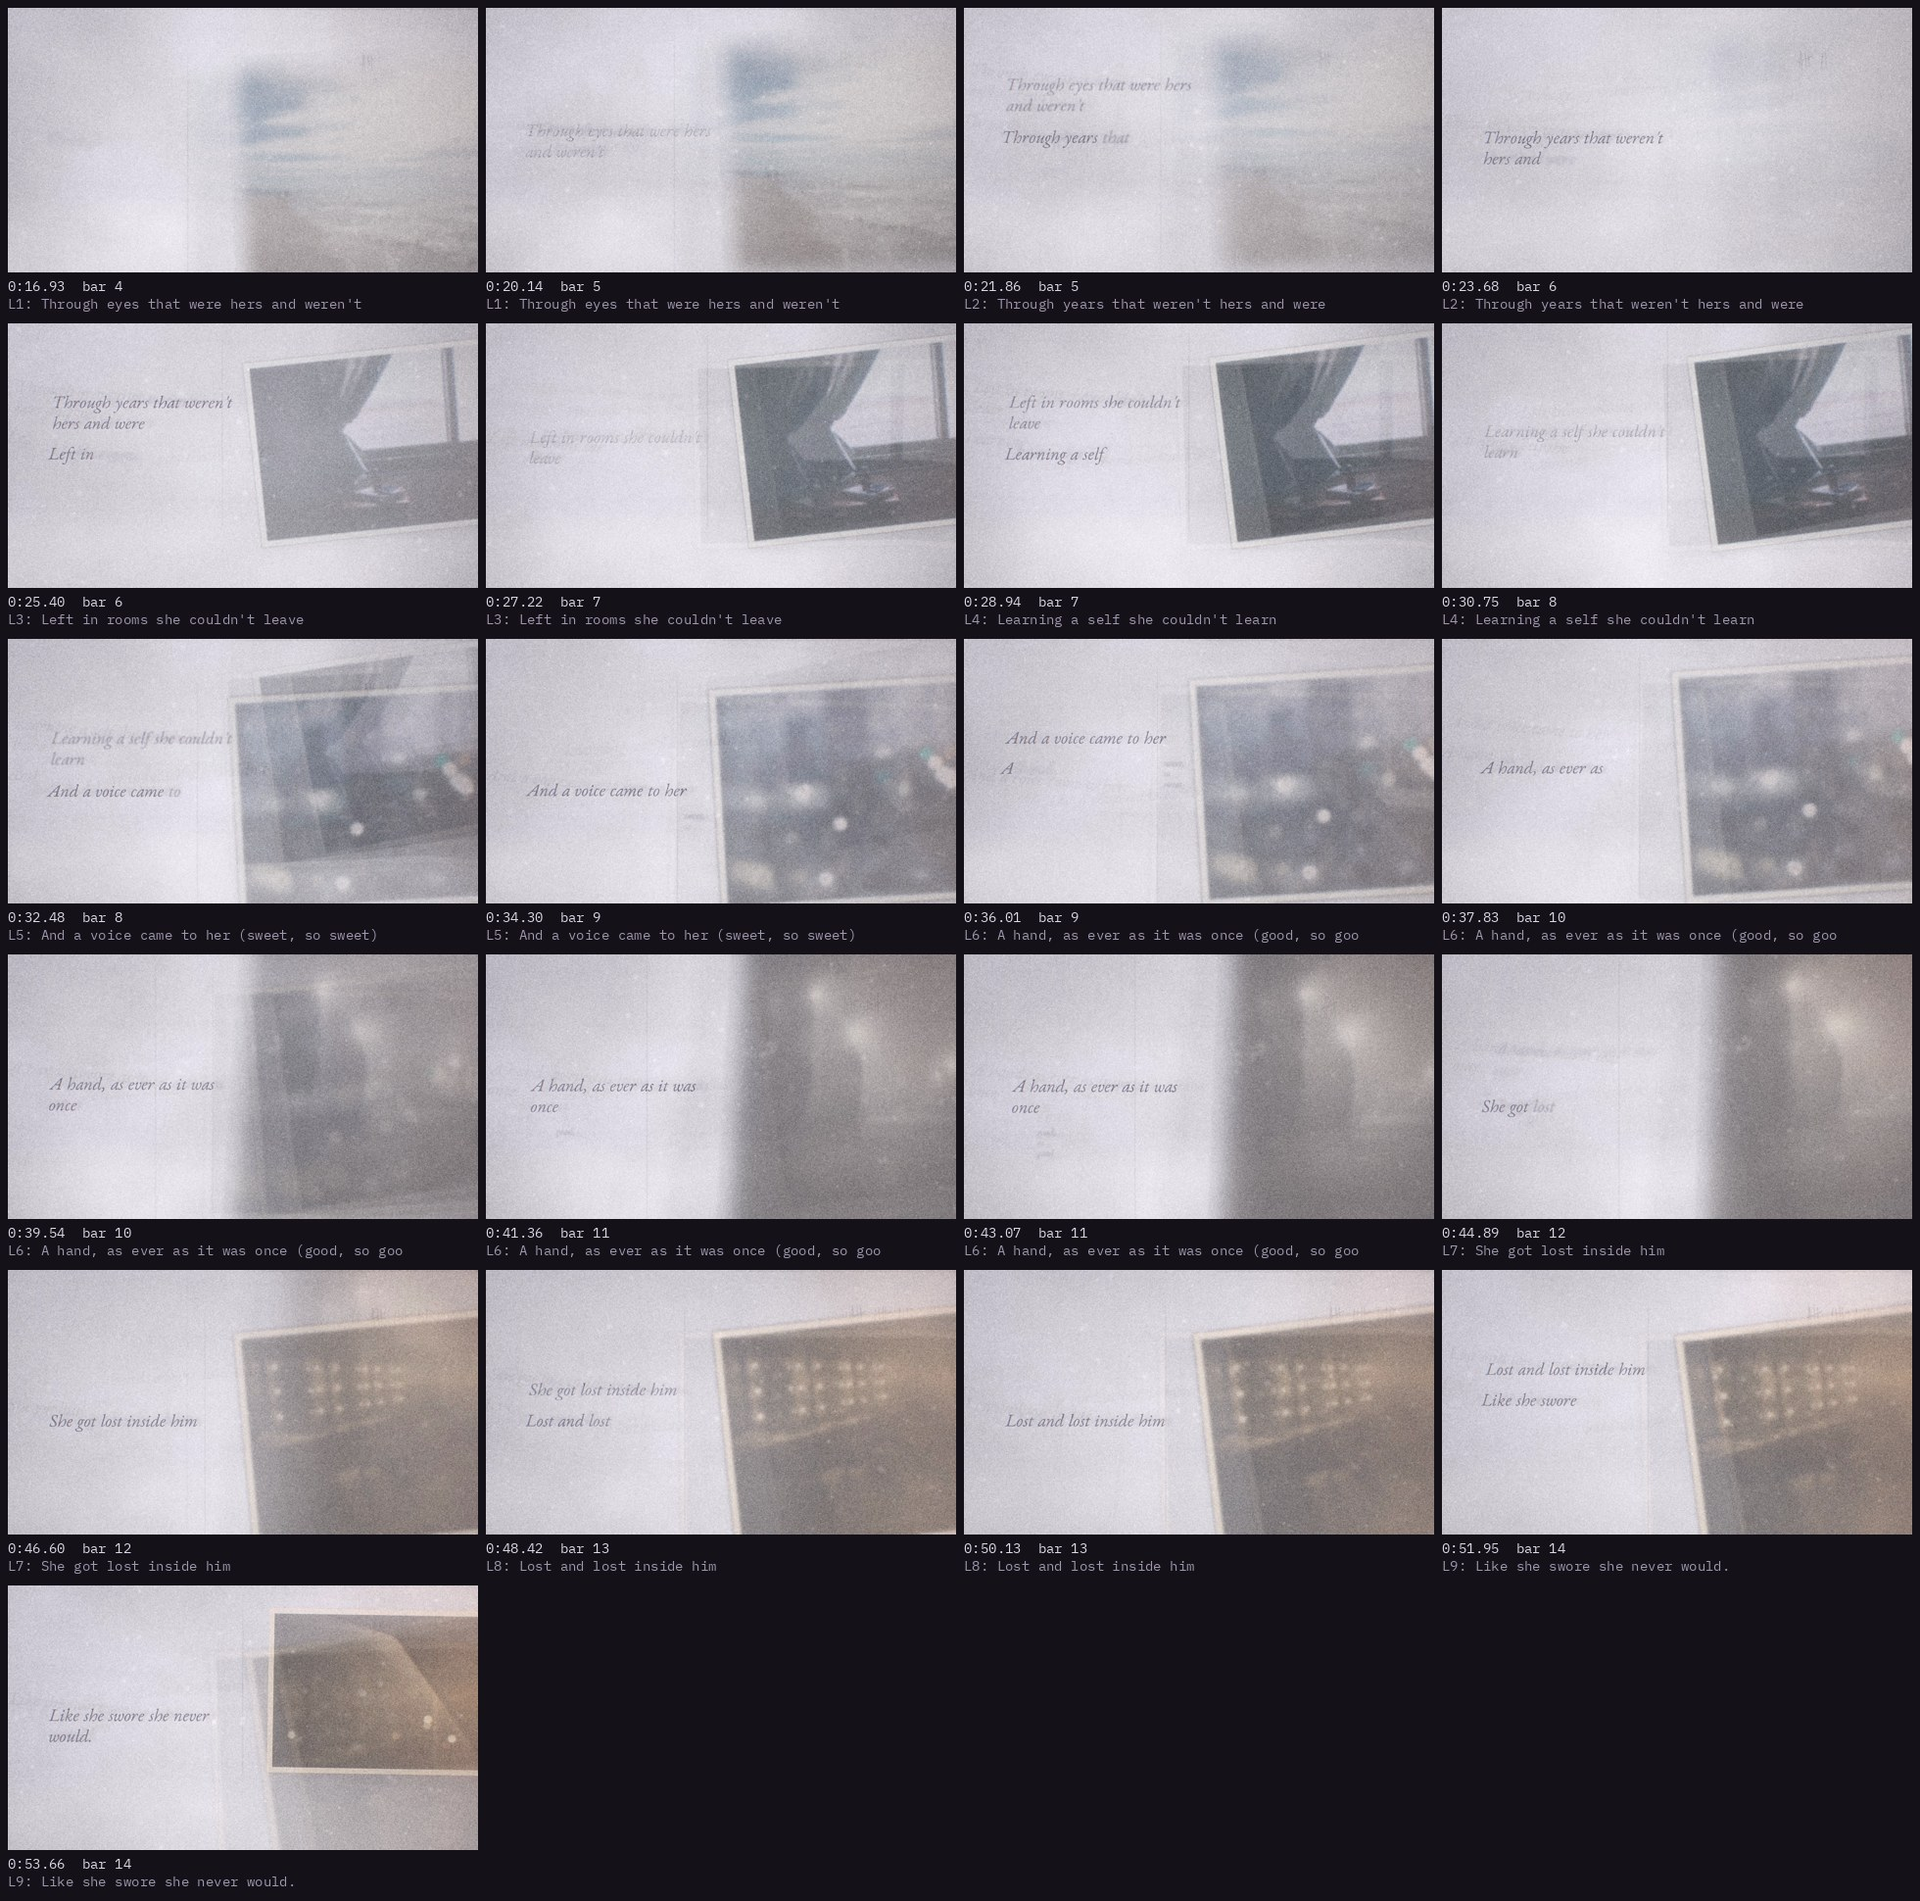
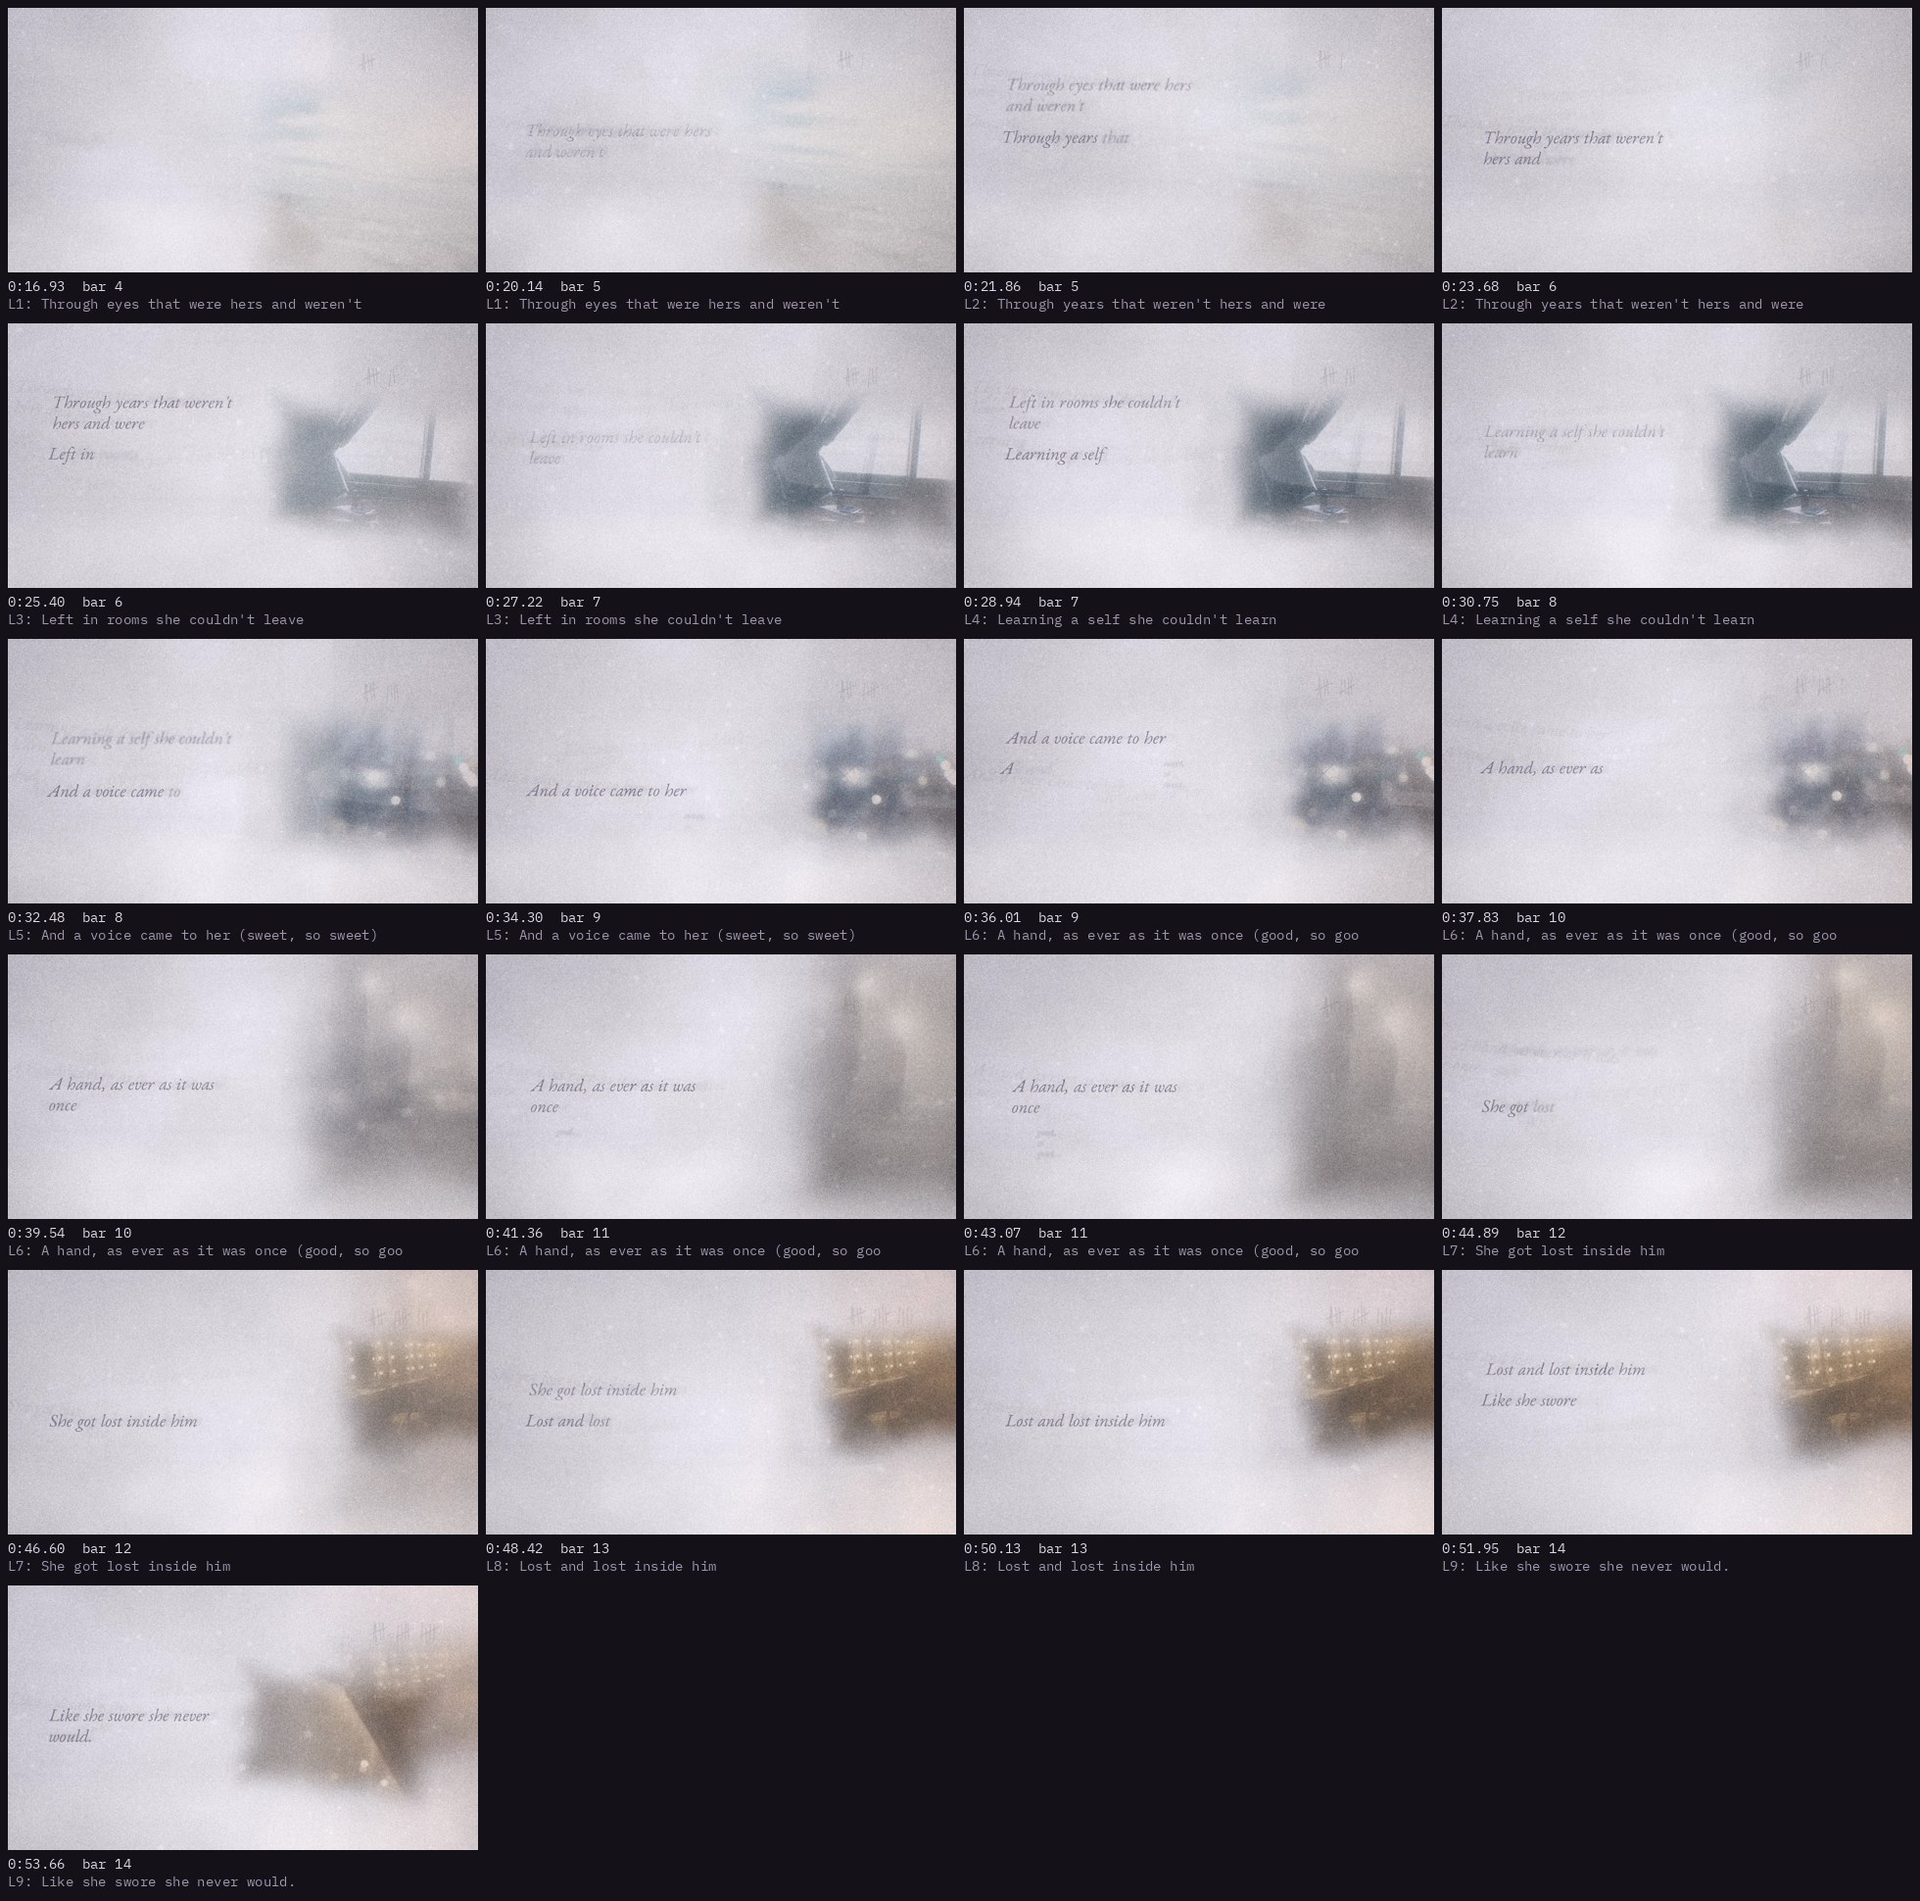
Re-render Verse A with ghostly print optics; update storyboard
Claude-Session: https://claude.ai/code/session_013aPae8dR11r7xw8o95d9Yi

diff --git a/storyboard/index.html b/storyboard/index.html
@@ -150,7 +150,7 @@ ol.steps li::marker { font: 600 0.85rem var(--mono); color: var(--ink-2); }
   </video>
   <figcaption><b>Verse A: Through eyes</b>
     <span class="tc">0:16.9 → 0:55.2 · bars 5–14</span>
-    <span class="note">Rebuilt with drifting memory photographs (real CC0/public-domain photos). Web copy at 720p; the 1080p master passed QA and ffprobe. <a href="renders/verse_a_contact.jpg">Contact sheet</a></span></figcaption>
+    <span class="note">Drifting memory photographs (real, contemporary, CC0/public domain) with ghostly optics: glow, lens defocus, light-falloff edges, film grain. Web copy at 720p; the 1080p master passed QA and ffprobe. <a href="renders/verse_a_contact.jpg">Contact sheet</a></span></figcaption>
 </figure></div>
   </section>
 

diff --git a/storyboard/spec.py b/storyboard/spec.py
@@ -203,5 +203,5 @@ STYLE_FRAMES = [
 # Sections built so far: (slug, section name, note shown under the player)
 RENDERS = [
     ("verse_a", "Verse A: Through eyes",
-     "Rebuilt with drifting memory photographs (real CC0/public-domain photos). Web copy at 720p; the 1080p master passed QA and ffprobe."),
+     "Drifting memory photographs (real, contemporary, CC0/public domain) with ghostly optics: glow, lens defocus, light-falloff edges, film grain. Web copy at 720p; the 1080p master passed QA and ffprobe."),
 ]
